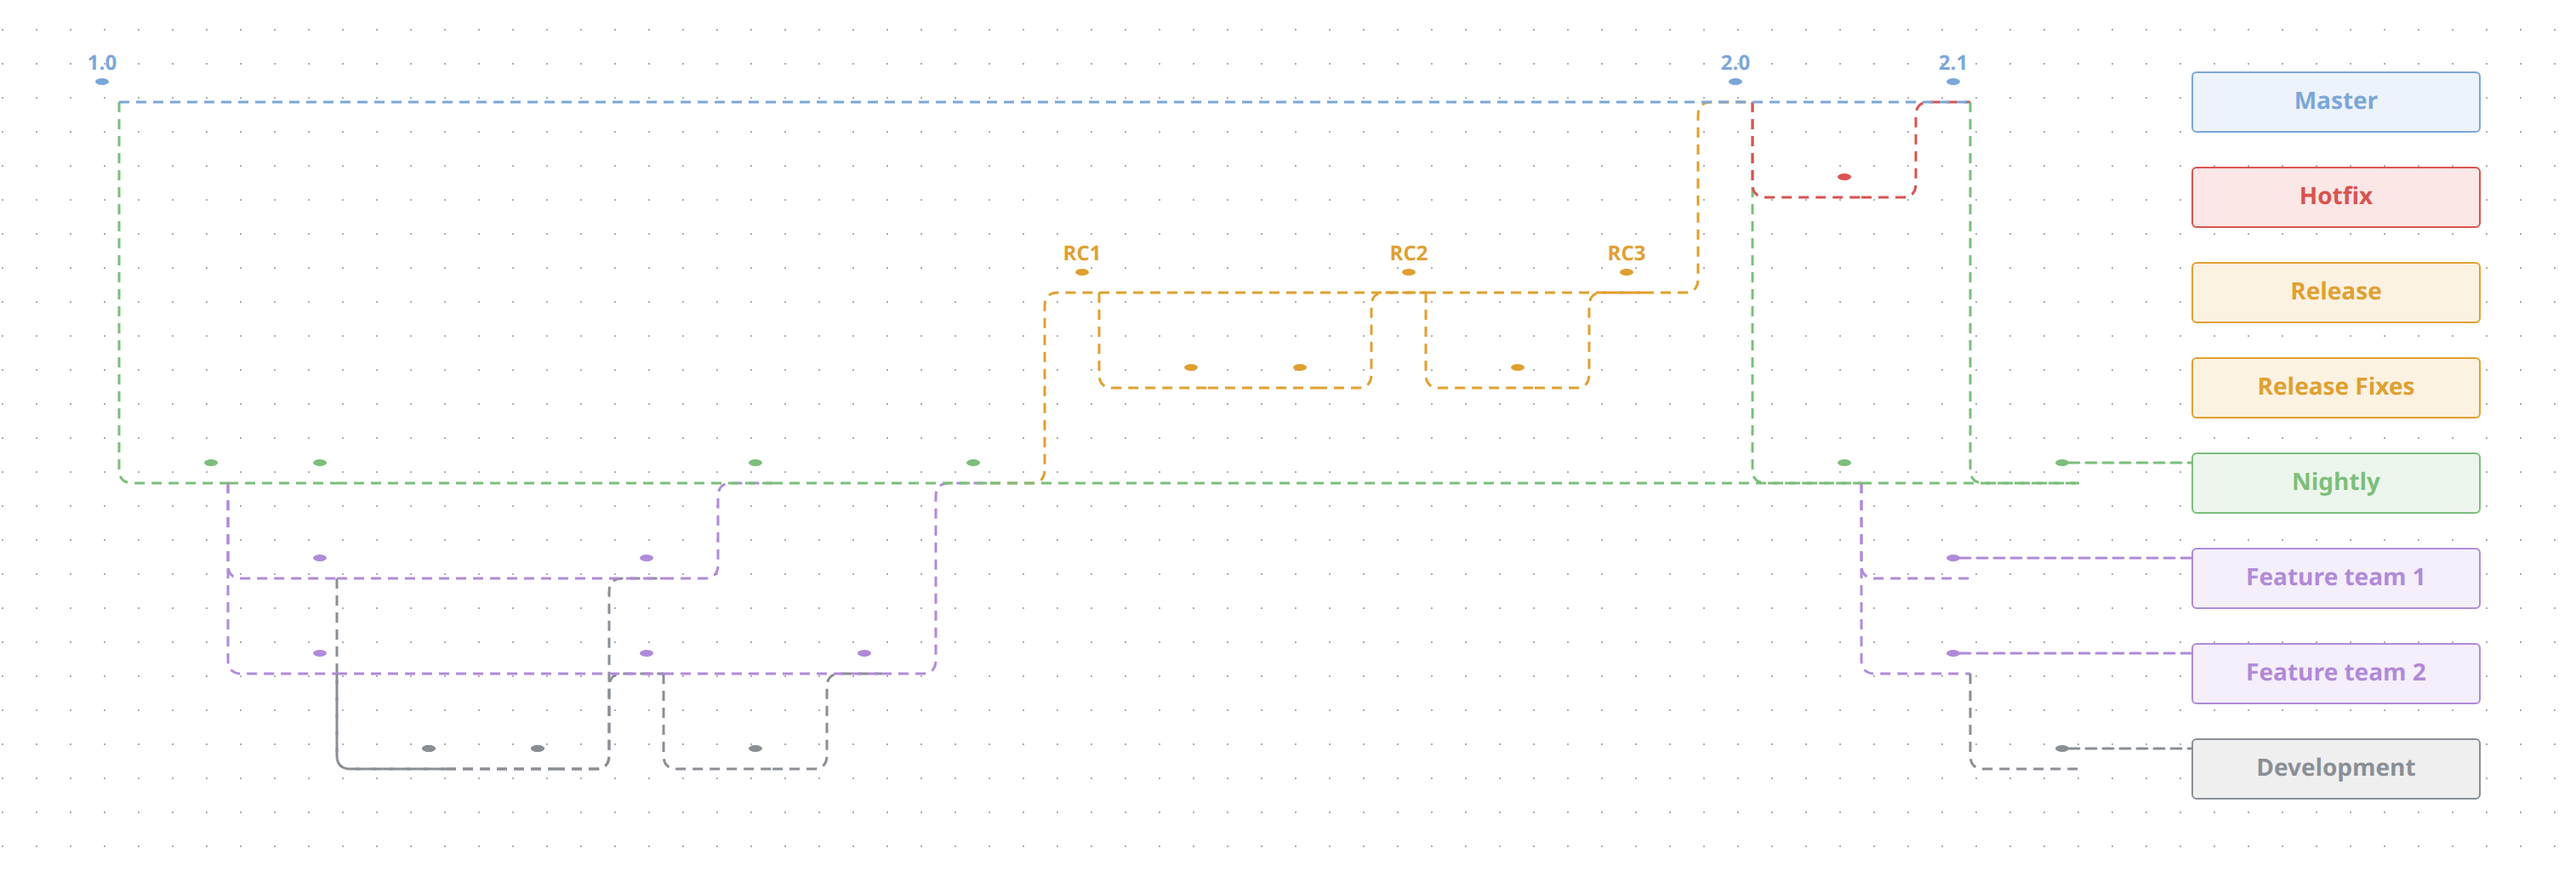
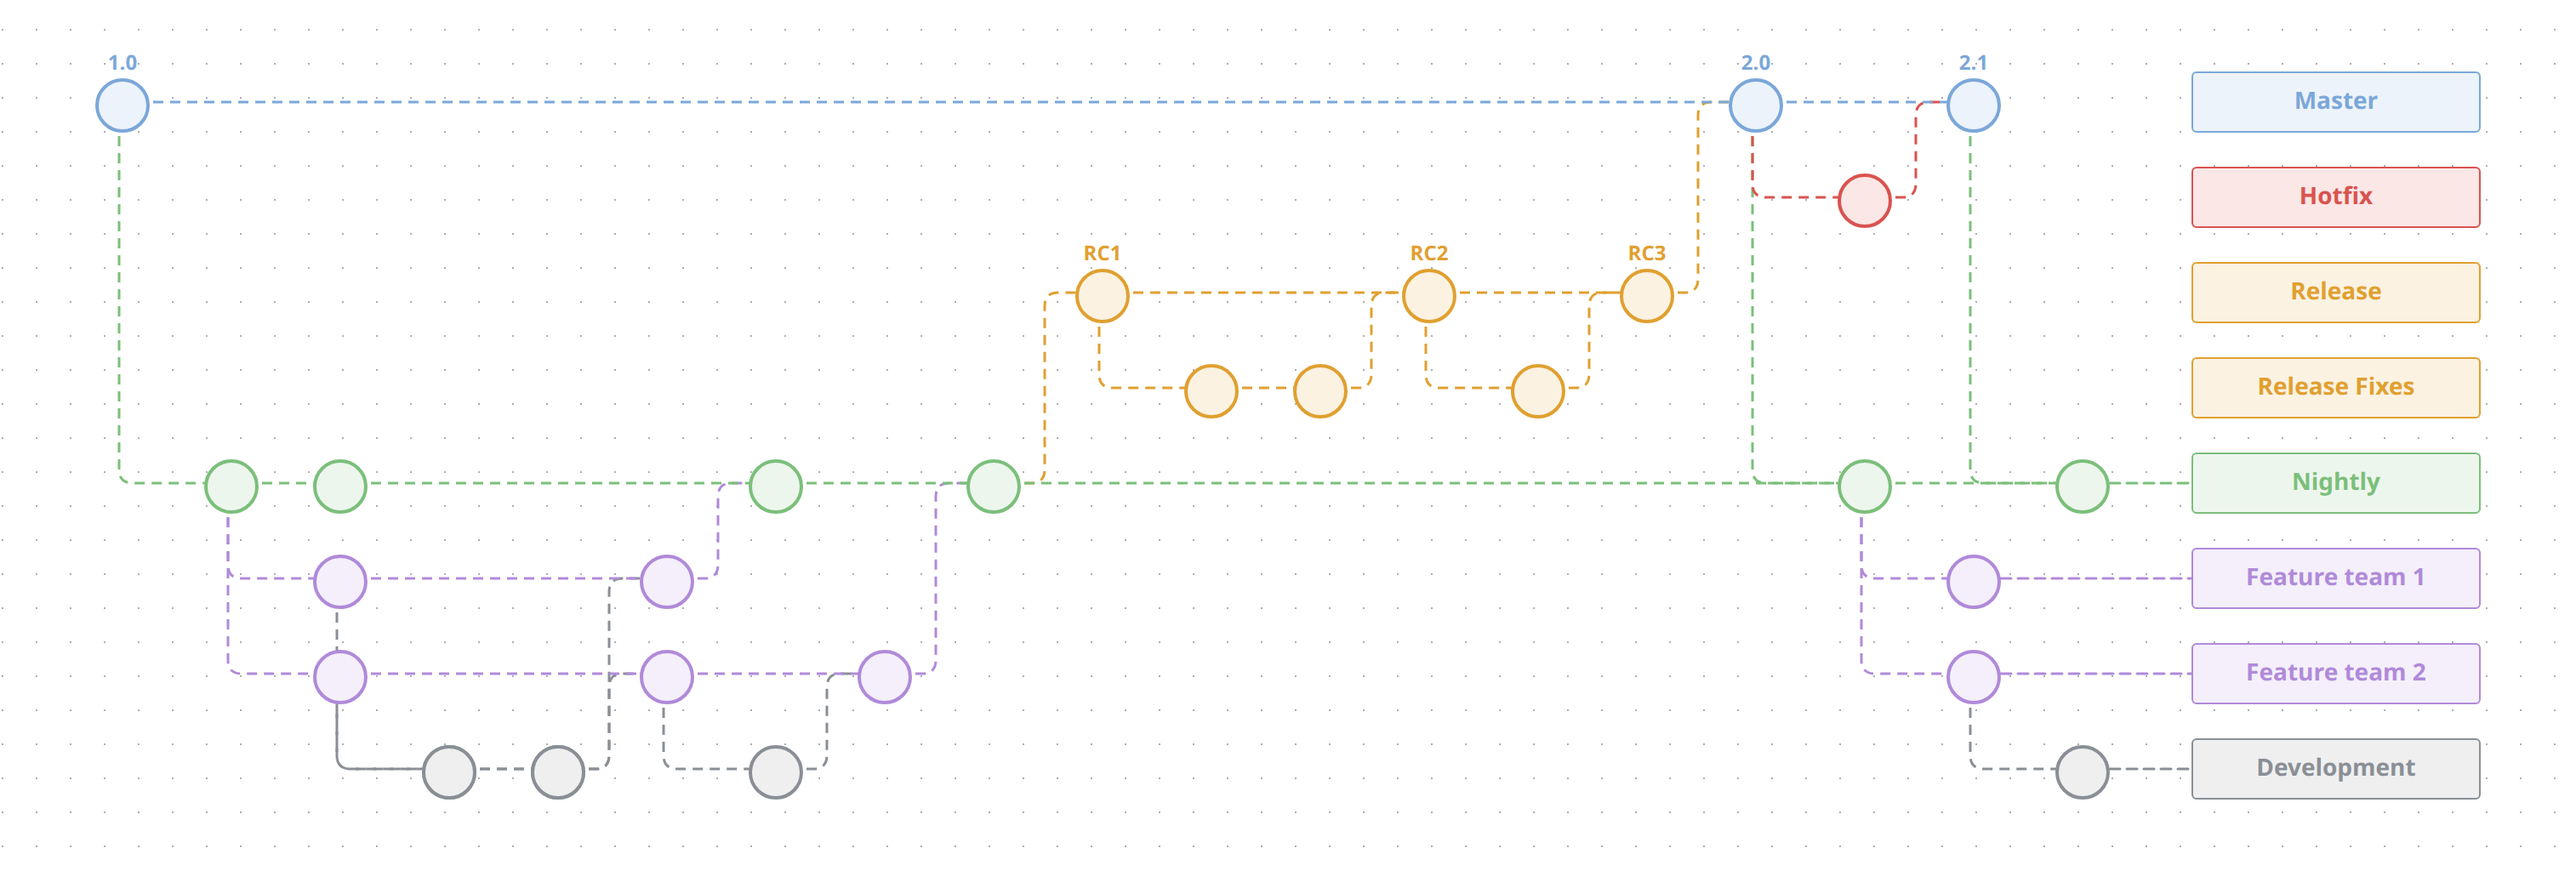
fix(renderer): give circle leaves their layout size — commit circles were collapsing to dots
derivedNodes only applied explicit style.width/height to expanded containers
and image/shape leaves. A git commit is a plain leaf with neither image nor
shape set, so its RF wrapper got no inline size and .dg-circle-node's
width/height:100% collapsed to a ~4px border-only square. Now a leaf whose
resolved type style is shape:'circle' also gets the layout's geometry applied
explicitly, same as image/shape leaves — a circle has no CSS-natural size the
way a box does; its diameter IS the layout's.

Regenerated .diagrams/static/docs-git-graph.png (circles now render at 28px).

diff --git a/packages/renderer/src/DiagramView.tsx b/packages/renderer/src/DiagramView.tsx
@@ -933,14 +933,25 @@ function Inner(props: DiagramViewProps) {
             ? { style: { width: geo.width, height: geo.height }, zIndex: -1 }
             : (n.node.image !== undefined || n.node.shape !== undefined) && n.state === 'leaf'
               ? { style: { width: geo.width, height: geo.height } }
-              : {}),
+              : // A circle leaf (e.g. a git commit) has no CSS-natural size the way
+                // an ordinary box does — .dg-circle-node zeroes out the base node's
+                // min-width/padding and is sized entirely by its RF wrapper
+                // (width/height: 100%). Without an explicit inline size here, that
+                // wrapper collapses to its border-only intrinsic size, so the
+                // layout's diameter must be applied explicitly, same as image/shape
+                // leaves above. Ordinary boxes and CLD text chips must NOT go
+                // through this branch — forcing sizes there would change their
+                // existing CSS-driven sizing.
+                n.state === 'leaf' && n.node.type !== undefined && typeRegistry.resolve(n.node.type).shape === 'circle'
+                ? { style: { width: geo.width, height: geo.height } }
+                : {}),
         }),
       );
       n.children.forEach((c) => walk(c, n.id));
     };
     compiled.roots.forEach((r) => walk(r));
     return out;
-  }, [compiled, placedGeometry, nodeDataCtx, editing]);
+  }, [compiled, placedGeometry, nodeDataCtx, editing, typeRegistry]);
 
   // React Flow owns a copy of the nodes and we apply its changes (drag positions,
   // measured dimensions, selection) with applyNodeChanges — the v12-recommended

diff --git a/packages/renderer/src/DiagramView.test.tsx b/packages/renderer/src/DiagramView.test.tsx
@@ -4,6 +4,7 @@ import { describe, expect, it, vi } from 'vitest';
 import { getViewportForBounds } from '@xyflow/react';
 import { model, type DiagramModel } from '@diagramming/core';
 import { DiagramView, type LayoutApi } from './DiagramView';
+import { GIT_LAYOUT } from './git-layout';
 
 /** container-endpoint relation: service inside a system relates to the system itself */
 function containerEndpointModel() {
@@ -1073,5 +1074,19 @@ describe('git-graph notation', () => {
     await screen.findByText('gw');
     expect(container.querySelector('svg.dg-git-lanes')).toBeNull();
     expect(container.querySelector('.dg-lane')).toBeNull();
+    // guard the narrowness of the circle-sizing fix: an ordinary box leaf must
+    // keep its CSS-natural sizing (no inline width forced on its RF wrapper)
+    const gw = container.querySelector('.react-flow__node[data-id="gw"]') as HTMLElement | null;
+    expect(gw?.style.width).toBe('');
+  });
+
+  it('sizes a commit circle leaf from the layout — it has no CSS-natural size', async () => {
+    const m = gitModel();
+    const { container } = render(<DiagramView model={m} plane="git-graph" notation="git-graph" />);
+    await waitFor(() => expect(container.querySelectorAll('.dg-circle-node')).toHaveLength(4));
+    const wrapper = container.querySelector('.react-flow__node[data-id="master-1"]') as HTMLElement | null;
+    expect(wrapper).not.toBeNull();
+    expect(wrapper?.style.width).toBe(`${GIT_LAYOUT.DIAMETER}px`);
+    expect(wrapper?.style.height).toBe(`${GIT_LAYOUT.DIAMETER}px`);
   });
 });
